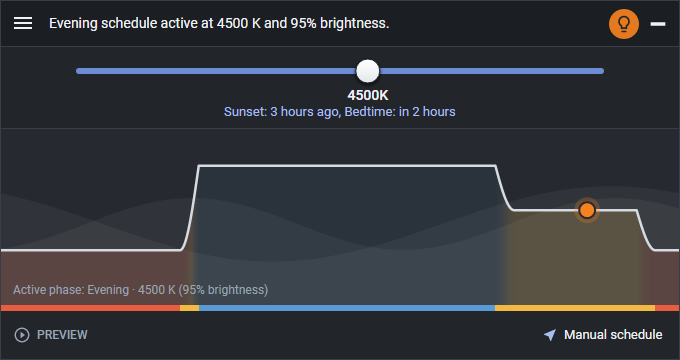
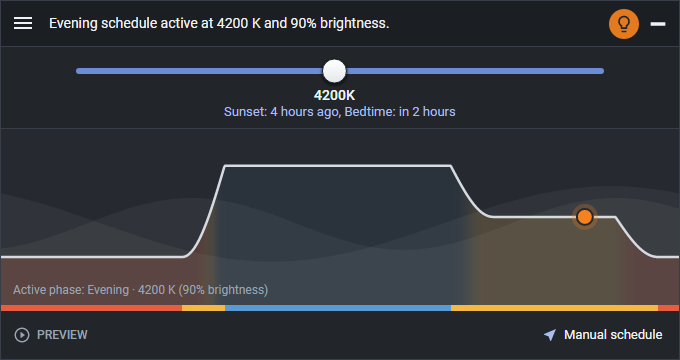
Add a screenshot of each settings page, and a dashboard with 1.5-hour transitions

diff --git a/ReadMe.md b/ReadMe.md
@@ -62,9 +62,33 @@ The two can't run at the same time: if LightBulb is running, Afterglow asks you 
 
 ## Screenshots
 
+**Dashboard.** The 24-hour curve shows how the day (6500 K), evening (4200 K), and night (2400 K) stages blend into each other, here with 1.5-hour transitions around sunset and bedtime.
+
 ![Dashboard](.assets/dashboard.png)
-![Settings](.assets/settings.png)
+
+**Tray menu.** Pause or turn off grayscale for a while, right from the system tray.
+
 ![Tray menu](.assets/tray.png)
+
+**Settings.** Everything is on one full-page screen, split into four tabs.
+
+![Settings](.assets/settings.png)
+
+**Cycle & Colors.** The temperature and brightness of each stage, the bedtime that starts the night, how long transitions take, and when grayscale turns on.
+
+![Cycle & Colors settings](.assets/settings-cycle.png)
+
+**Schedule & Location.** Sunrise and sunset from a searched place, coordinates, or automatic detection, or set by hand.
+
+![Schedule & Location settings](.assets/settings-schedule.png)
+
+**Rules & Whitelist.** When to pause automatically, per-display offsets for multi-monitor setups, and the applications and window titles that pause Afterglow.
+
+![Rules & Whitelist settings](.assets/settings-rules.png)
+
+**App & Controls.** Startup, updates, and gamma options, the language, and global hotkeys.
+
+![App & Controls settings](.assets/settings-app.png)
 
 ## License
 
